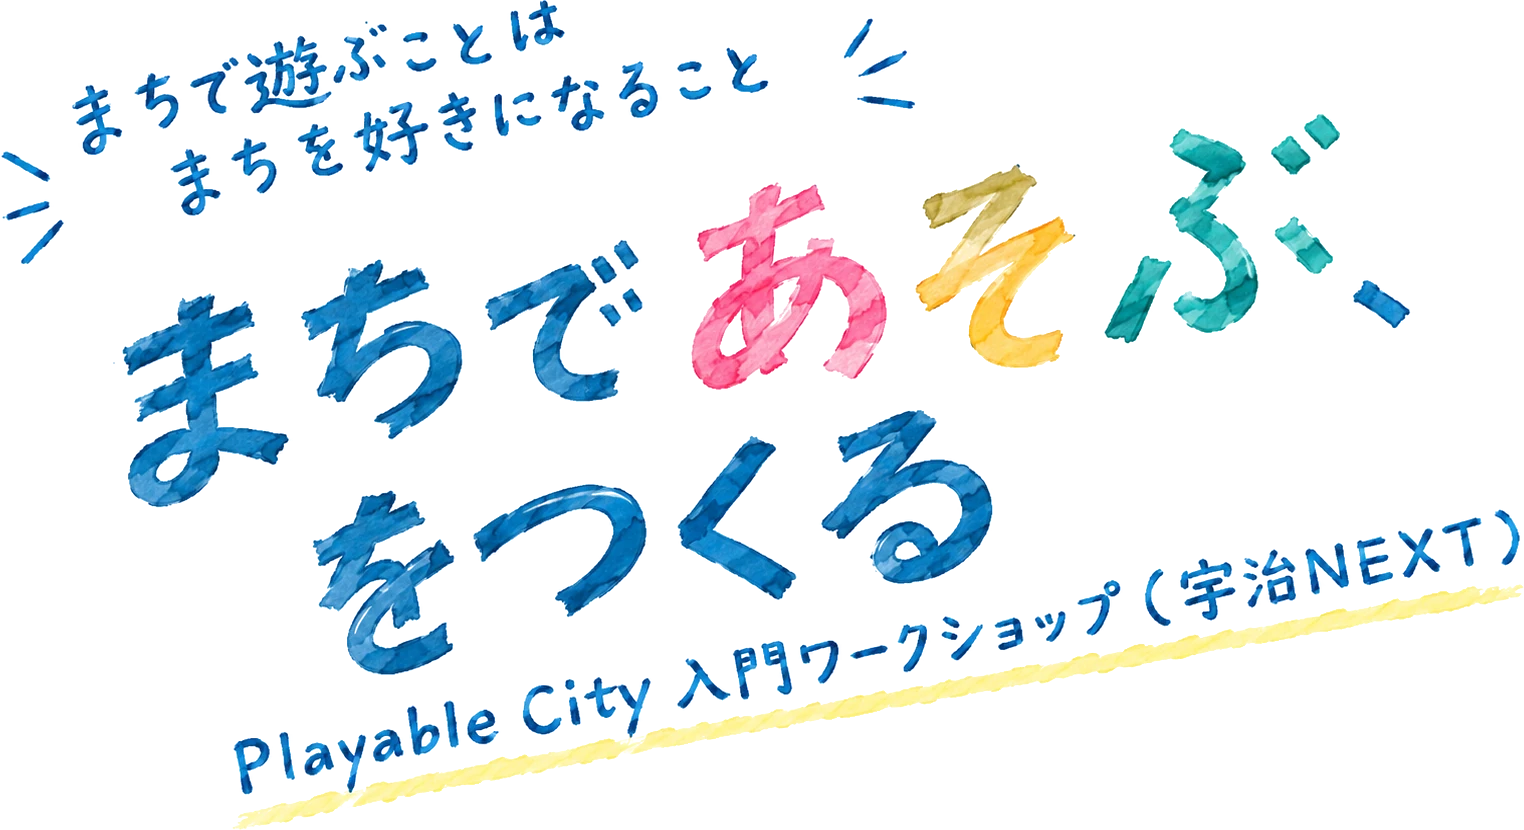
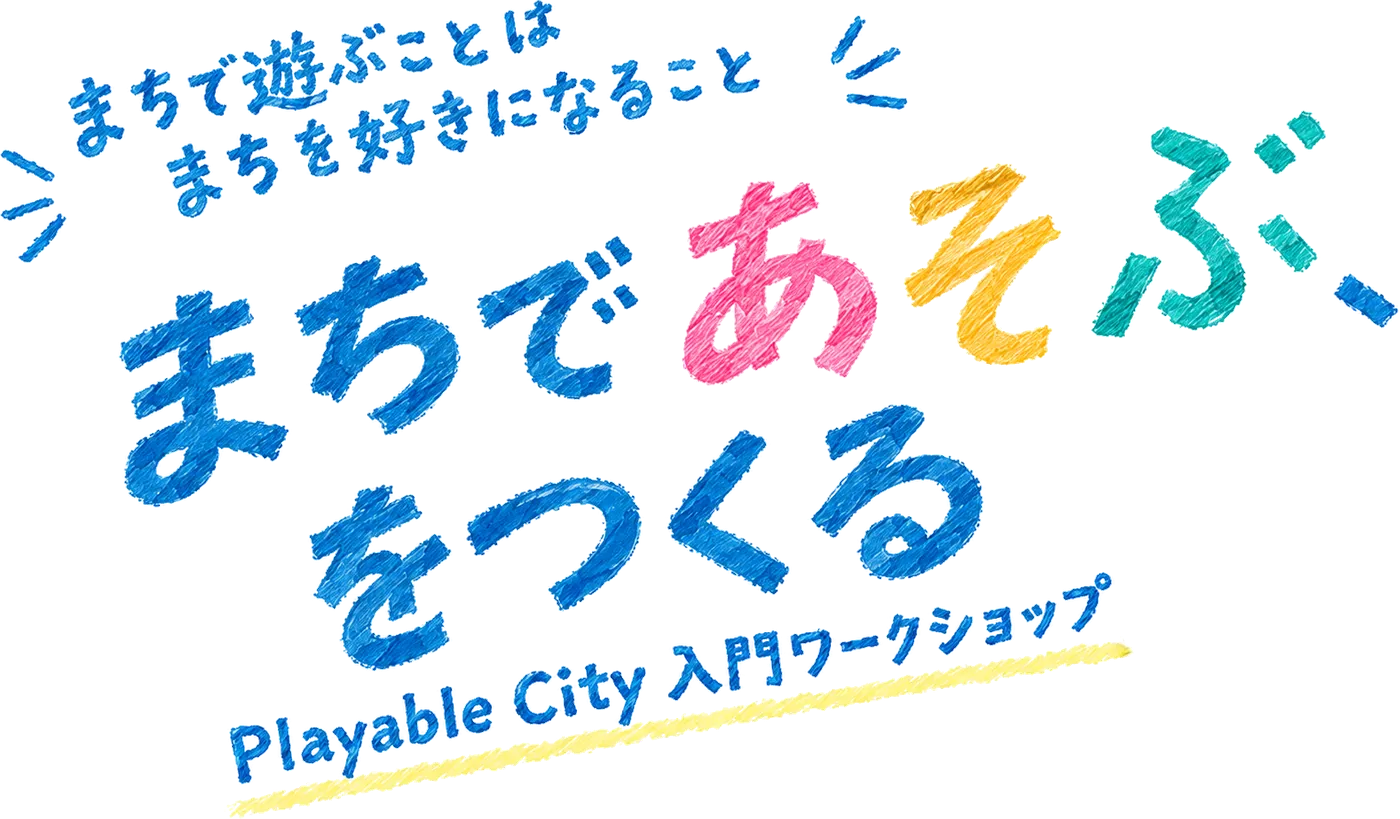
Replace the hero title artwork
いただいた新しいタイトル画像に差し替え。

- 元画像は白背景で透過がなかったため、紙の色との差分からアルファを
  算出して透過に変換（ヒーローのイラストが背後に透ける必要があるため）
- 色鉛筆のかすれを残すため、しきい値にゆるやかな傾斜をつけて抽出
- 縦横比が 1.836 から 1.709 に変わり、タイトルの高さが 27.3cqw から
  29.4cqw に増えるが、下の facts 画像（40.2cqw）とは重ならないことを確認
- alt がヒーローのイラストと同じ説明文になっていたので、タイトルの
  文言に修正

diff --git a/index.html b/index.html
@@ -615,7 +615,7 @@ footer a{color:#fff;text-decoration:none;border-bottom:1px solid rgba(255,255,25
   <div class="hero-photo">
     <img width="1672" height="940" fetchpriority="high" src="assets/hero-illustration.webp" alt="宇治のまちの地図を広げて、みんなで遊び方を描き込んでいるようすのイラスト。まちであそぶ、をつくる — Playable City 入門ワークショップ（宇治NEXT）" decoding="async">
     <div class="hero-art">
-      <img class="title-img" width="1524" height="830" src="assets/hero-title.webp" alt="宇治のまちの地図を広げ、色鉛筆で遊びのアイデアを描き込んでいるようすのイラスト" decoding="async">
+      <img class="title-img" width="1400" height="819" src="assets/hero-title.webp" alt="まちで遊ぶことは まちを好きになること／まちであそぶ、をつくる — Playable City 入門ワークショップ" decoding="async">
       <span class="facts-bg" aria-hidden="true"></span>
       <img class="facts-img" width="1935" height="463" src="assets/hero-facts.webp" alt="DATE 2026年9月下旬の週末／PLACE 宇治市産業会館 多目的ホール／WHO 小学4年生〜中学生とその保護者／FEE 無料／TIME 120分" decoding="async">
       <svg class="hnote-spark a" viewBox="0 0 30 50" aria-hidden="true"><path d="M24 8 L6 16 M24 25 L6 26 M24 42 L8 38"/></svg>
